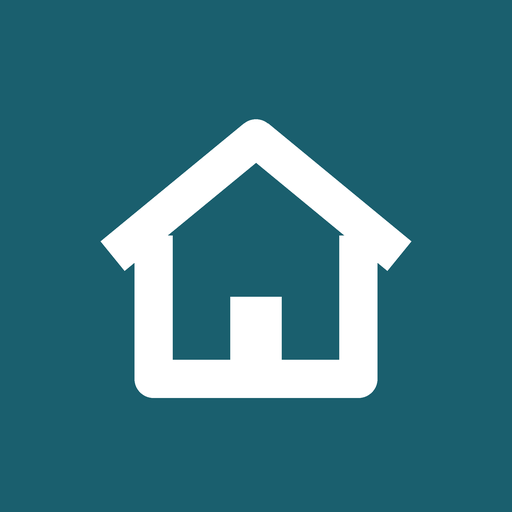
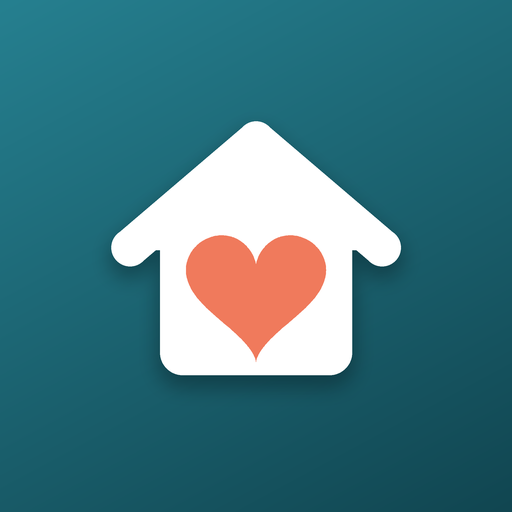
Add files via upload

diff --git a/index.html b/index.html
@@ -6,8 +6,8 @@
 <meta name="theme-color" content="#1A5F6E">
 <meta name="description" content="Gastos del hogar de Pablo y Pau">
 <link rel="manifest" href="manifest.webmanifest">
-<link rel="icon" href="icon-192.png">
-<link rel="apple-touch-icon" href="icon-192.png">
+<link rel="icon" href="icon-192.png?v=2">
+<link rel="apple-touch-icon" href="icon-192.png?v=2">
 <style>:root{color-scheme:light;padding-top:env(safe-area-inset-top,0px);padding-bottom:env(safe-area-inset-bottom,0px)}body{margin:0}img{max-width:100%}[hidden]{display:none!important}</style>
 <title>Hogar</title>
 <link rel="preconnect" href="https://fonts.googleapis.com">
@@ -68,6 +68,22 @@ button{cursor:pointer}
 .top-actions{display:flex;align-items:center;gap:8px}
 .chip-person{display:inline-flex;align-items:center;gap:8px;min-height:44px;padding:0 14px 0 6px;border-radius:999px;border:1px solid var(--line);background:var(--surface);font-weight:700}
 .chip-person .av{width:30px;height:30px;border-radius:50%;display:grid;place-items:center;background:var(--accent-soft);color:var(--accent-strong);font-size:13px}
+.av-me{min-height:36px;padding:0 12px;border-radius:999px;display:inline-flex;align-items:center;background:var(--accent-soft);color:var(--accent-strong);font-weight:800;font-size:14px;flex:none}
+.chip-set{display:inline-flex;align-items:center;gap:6px;min-height:44px;padding:0 14px 0 11px;border-radius:999px;border:1px solid var(--line);background:var(--surface);color:var(--ink);font-weight:700;font-size:15px;text-decoration:none;flex:none}
+.chip-set svg{width:20px;height:20px}
+.chip-set[aria-current]{background:var(--accent);border-color:var(--accent);color:var(--accent-ink)}
+.sec-l{margin:10px 4px -2px;font-size:12.5px;font-weight:800;letter-spacing:.07em;text-transform:uppercase;color:var(--muted)}
+.mini3{display:grid;grid-template-columns:repeat(3,minmax(0,1fr));gap:8px;margin-top:12px}
+.mini3>div{border:1px solid var(--line-soft);background:var(--sunken);border-radius:12px;padding:8px 10px;display:flex;flex-direction:column;gap:2px;min-width:0}
+.mini3 span{font-size:12px;color:var(--muted);line-height:1.25}
+.mini3 b{font-size:16px}
+.net{display:flex;flex-direction:column;gap:2px;padding:4px 0 12px}
+.net b{font-size:28px;line-height:1.1}
+.dt{width:46px;flex:none;border-radius:10px;background:var(--sunken);color:var(--ink-2);display:flex;flex-direction:column;align-items:center;justify-content:center;padding:5px 0;line-height:1.05}
+.dt b{font-size:17px}
+.dt span{font-size:11.5px;font-weight:700;text-transform:uppercase;letter-spacing:.04em}
+.dt.late{background:var(--warn-soft);color:var(--warn)}
+.dt.done{background:var(--ok-soft);color:var(--ok)}
 .icon-btn{width:44px;height:44px;display:grid;place-items:center;border-radius:50%;border:1px solid var(--line);background:var(--surface);color:var(--ink)}
 .icon-btn svg,.ic{width:22px;height:22px;flex:none}
 
@@ -329,6 +345,7 @@ var IC = {
   swap: '<path d="M4 8h14l-3-3M20 16H6l3 3"/>',
   chart: '<path d="M5 20V11M11 20V5M17 20v-7M2 20h20"/>',
   gear: '<path d="M4 6h10M18 6h2M4 12h4M12 12h8M4 18h12"/><circle cx="16" cy="6" r="2"/><circle cx="10" cy="12" r="2"/><circle cx="18" cy="18" r="2"/>',
+  cog: '<path d="M12.22 2h-.44a2 2 0 0 0-2 2v.18a2 2 0 0 1-1 1.73l-.43.25a2 2 0 0 1-2 0l-.15-.08a2 2 0 0 0-2.73.73l-.22.38a2 2 0 0 0 .73 2.73l.15.1a2 2 0 0 1 1 1.72v.51a2 2 0 0 1-1 1.74l-.15.09a2 2 0 0 0-.73 2.73l.22.38a2 2 0 0 0 2.73.73l.15-.08a2 2 0 0 1 2 0l.43.25a2 2 0 0 1 1 1.73V20a2 2 0 0 0 2 2h.44a2 2 0 0 0 2-2v-.18a2 2 0 0 1 1-1.73l.43-.25a2 2 0 0 1 2 0l.15.08a2 2 0 0 0 2.73-.73l.22-.39a2 2 0 0 0-.73-2.73l-.15-.08a2 2 0 0 1-1-1.74v-.5a2 2 0 0 1 1-1.74l.15-.09a2 2 0 0 0 .73-2.73l-.22-.38a2 2 0 0 0-2.73-.73l-.15.08a2 2 0 0 1-2 0l-.43-.25a2 2 0 0 1-1-1.73V4a2 2 0 0 0-2-2z"/><circle cx="12" cy="12" r="3"/>',
   cart: '<circle cx="9" cy="20" r="1.5"/><circle cx="18" cy="20" r="1.5"/><path d="M2.5 3.5h3l2.4 11.2a1.5 1.5 0 0 0 1.5 1.2h8.3a1.5 1.5 0 0 0 1.4-1.1L21 7.5H6.4"/>',
   apple: '<path d="M12 7c-1-2.5-3-3.5-5-3"/><path d="M12 7.5c-4.5-2-8 1-8 5.5 0 4.2 3 8 5.5 8 1 0 1.6-.5 2.5-.5s1.5.5 2.5.5c2.5 0 5.5-3.8 5.5-8 0-4.5-3.5-7.5-8-5.5z"/>',
   receipt: '<path d="M6 3h12v18l-3-2-3 2-3-2-3 2z"/><path d="M9 8h6M9 12h6"/>',
@@ -429,8 +446,8 @@ function load(){
     try {
       var c = JSON.parse(decodeURIComponent(escape(atob(h.slice(3)))));
       if (c.u && c.k) { conn = { url: c.u, key: c.k }; lsSet(CONN_KEY, JSON.stringify(conn)); }
-      if (c.p) { S.me = c.p; S.meAsked = true; }
-      ui.pendingToast = "Conectado a la planilla compartida" + (c.p ? " como " + NAME[c.p] : "") + ".";
+      if (c.p && !S.meAsked) { S.me = c.p; S.meAsked = true; }
+      ui.pendingToast = "Conectado a la planilla compartida" + (S.meAsked ? " como " + NAME[S.me] : "") + ".";
     } catch (e) { ui.pendingToast = "El enlace de conexión no es válido. Pídele a Pablo uno nuevo."; }
     try { history.replaceState(null, "", location.pathname + location.search + "#inicio"); } catch (e) { location.hash = "inicio"; }
   }
@@ -530,7 +547,7 @@ function connect(url, key, me){
     return { data: d, seeded: false };
   }).then(function(r){
     lsSet(CONN_KEY, JSON.stringify(conn)); queue = []; syncErr = "";
-    if (me) { S.me = me; S.meAsked = true; }
+    if (me && !S.meAsked) { S.me = me; S.meAsked = true; }
     applyServer(r.data);
     syncing = false; render();
     toast(r.seeded ? "Conectado. Se cargaron los datos iniciales en la planilla." : "Conectado. Se trajeron los datos de la planilla.");
@@ -677,7 +694,7 @@ function pendientes(){
   var ce = dankoEnd(TODAY);
   for (var e = dankoEnd(addDays(S.config.dankoLiqHasta, 1)); e <= ce; e = dankoEnd(addDays(e, 1))) {
     var dk = dankoCalc(e);
-    if (!dk.done && dk.items.length) out.push({ k: "danko-" + e, t: "Danko · " + dShort(dk.st) + " al " + dShort(e), d: dk.enCurso ? "cierra el " + dShort(e) + " · si se cerrara hoy" : "período cerrado", r: dk.r, sort: e, danko: true });
+    if (!dk.done && dk.items.length) out.push({ k: "danko-" + e, t: "Danko · " + dShort(dk.st) + " al " + dShort(e), d: dk.enCurso ? "cierra el " + dShort(e) + " · si se cerrara hoy" : "período cerrado", r: dk.r, sort: e, danko: true, cur: dk.enCurso });
   }
   out.sort(function(x, y){ return x.sort < y.sort ? -1 : 1; });
   return out;
@@ -938,47 +955,126 @@ function lineChart(o){
 
 /* ---------- Vistas ---------- */
 function topBar(title, sub){
-  var me = S.me || "pablo";
+  var me = S.meAsked ? S.me : null;
   return '<header class="top"><div style="min-width:0"><p class="date">' + esc(sub) + ' · <span id="sync-st" class="sync">' + esc(syncText()) + "</span></p><h1>" + esc(title) + '</h1></div><div class="top-actions">' +
-    '<button type="button" class="chip-person" data-act="me-toggle" aria-label="Este celular es de ' + NAME[me] + '. Cambiar"><span class="av">' + NAME[me].charAt(0) + "</span>" + NAME[me] + "</button>" +
-    '<a class="icon-btn" href="#ajustes" aria-label="Ajustes">' + icon("gear") + "</a></div></header>";
+    (me ? '<span class="av-me" role="img" aria-label="Este celular es de ' + NAME[me] + '" title="Este celular es de ' + NAME[me] + '">' + NAME[me] + "</span>" : "") +
+    '<a class="chip-set" href="#ajustes"' + (ui.view === "ajustes" ? ' aria-current="page"' : "") + ">" + icon("cog") + "<span>Ajustes</span></a></div></header>";
+}
+function meCard(){
+  if (ui.mePick) return '<div class="card"><h2>¿Este celular es de ' + NAME[ui.mePick] + '?</h2><p class="sub">Queda fijo y no se puede cambiar después. Así «Pagó» viene puesto con el nombre correcto y nadie anota a nombre del otro por error.</p><div class="btns" style="margin-top:12px"><button type="button" class="btn" data-act="me-ok" data-v="' + ui.mePick + '">Sí, es de ' + NAME[ui.mePick] + '</button><button type="button" class="btn quiet" data-act="me-back">Volver</button></div></div>';
+  return '<div class="card"><h2>¿De quién es este celular?</h2><p class="sub">Se elige una sola vez. Desde ahí, «Pagó» viene puesto con ese nombre cada vez que anoten.</p><div class="btns" style="margin-top:12px"><button type="button" class="btn sec" data-act="me" data-v="pablo">Pablo</button><button type="button" class="btn sec" data-act="me" data-v="pau">Pau</button></div></div>';
 }
 
 function viewInicio(){
-  var h = "", ws = weekStart(TODAY), f = foodWeekCalc(ws);
-  var left = f.pres - f.total, dLeft = Math.max(1, 7 - (parse(TODAY).getDay() + 6) % 7);
-  h += topBar("Hogar", cap(dLong(TODAY)));
+  var m = mk(TODAY), h = topBar("Hogar", cap(dLong(TODAY)));
   h += '<div class="stack">';
-  if (!S.meAsked) h += '<div class="card"><h2>¿De quién es este celular?</h2><p class="sub">Así, «Pagó» viene puesto con tu nombre cada vez que anotas.</p><div class="btns" style="margin-top:12px"><button class="btn sec" data-act="me" data-v="pablo">Pablo</button><button class="btn sec" data-act="me" data-v="pau">Pau</button></div></div>';
+  if (!S.meAsked) h += meCard();
   if (!conn) h += '<div class="banner">' + icon("info") + '<div><b>Este celular todavía no está conectado a la planilla compartida.</b> Lo que anoten queda solo aquí. <button type="button" class="btn small quiet" style="margin-top:8px" data-act="go" data-v="ajustes-con">Conectar</button></div></div>';
   else if (syncErr) h += '<div class="banner warnb">' + icon("info") + "<div>" + esc(syncErr) + '</div><button type="button" class="btn small quiet" data-act="sync-now">Reintentar</button></div>';
-  /* Héroe */
+  h += '<p class="sec-l">La plata de los dos</p>' + cfCard(m) + entreCard();
+  h += '<p class="sec-l">Presupuesto</p>' + foodHero(m) + presCard(m);
+  h += '<p class="sec-l">Por pagar o anotar</p>' + agendaCard(m);
+  return h + "</div>";
+}
+function cfMes(m){
+  var dep = 0, out = 0;
+  S.liqs.forEach(function(l){
+    if (mk(l.fecha) !== m) return;
+    if (l.tipo === "hogar") dep += (l.montos.pauACF || 0) + (l.montos.pabloACF || 0);
+    if (l.tipo === "reemb") out += (l.montos.cfAPablo || 0) + (l.montos.cfAPau || 0);
+  });
+  S.movs.forEach(function(x){ if (x.paga === "cf" && mk(x.fecha) === m) out += x.monto; });
+  return { dep: dep, out: out };
+}
+function cfCard(m){
+  var c = S.config.cf, sal = cfSaldo(), cm = cfMes(m), re = reembItems();
+  var ra = sum(re.filter(function(x){ return x.paga === "pablo"; }), function(x){ return x.monto; }), rb = sum(re.filter(function(x){ return x.paga === "pau"; }), function(x){ return x.monto; });
+  var hc = hogarCalc(m), nxt = hc.liq ? hogarCalc(addMonths(m, 1)) : hc;
+  var h = '<section class="card" data-info="cf"><div class="card-h"><h2>Cuenta familiar · ' + esc(c.banco) + "</h2>" + (c.conocido ? "" : '<span class="pill warn">Falta el saldo real</span>') + "</div>";
+  h += '<p class="sub">' + (c.conocido ? "Saldo estimado hoy" : "Según lo anotado desde el " + dShort(c.fecha || "2026-10-01")) + '</p><p class="big num" style="font-size:34px;margin:2px 0 0">' + fmt(sal) + "</p>";
+  h += '<div class="mini3"><div><span>Entró en ' + monthName(m) + '</span><b class="num">' + fmt(cm.dep) + '</b></div><div><span>Salió en ' + monthName(m) + '</span><b class="num">' + fmt(cm.out) + '</b></div><div><span>Por devolver' + (ra && !rb ? " a Pablo" : rb && !ra ? " a Pau" : "") + '</span><b class="num">' + fmt(ra + rb) + "</b></div></div>";
+  var dep = nxt.listo ? nxt.r.pauACF : null;
+  h += '<p class="note">' + (ra + rb ? "Después de devolver lo pendiente quedan <b>" + fmt(sal - ra - rb) + "</b>. " : "") + (hc.liq ? "Próximo depósito de Pau, del 2 al 5 de " + monthName(nxt.m) + ": " : "Depósito de Pau este mes: ") + (dep == null ? "se calcula al anotar el arriendo." : "<b>" + fmt(dep) + "</b>" + (nxt.have.ggcc ? "." : ", antes de los gastos comunes.")) + "</p>";
+  h += '<div class="btns" style="margin-top:12px">' + (re.length ? '<button type="button" class="btn sec small" data-act="go-liq" data-v="reemb">Devolver ' + fmt(ra + rb) + "</button>" : "") + '<button type="button" class="btn sec small" data-act="go" data-v="ajustes-cf">Anotar saldo del banco</button></div></section>';
+  return h;
+}
+function entreCard(){
+  var p = pendientes().filter(function(x){ return x.k !== "reemb"; });
+  var nums = p.filter(function(x){ return typeof x.r === "number"; }), net = sum(nums, function(x){ return x.r; });
+  var h = '<section class="card tight" data-info="pend"><div class="card-h"><h2>Entre Pau y Pablo</h2><a class="link" href="#liquidar">Liquidar</a></div>';
+  if (!p.length) return h + '<div class="row"><span style="color:var(--ok)">' + icon("check") + '</span><div class="grow"><div class="t">Están al día</div><div class="d">No se deben nada.</div></div></div></section>';
+  h += '<div class="net"><span class="sub" style="margin:0">' + (net > 0 ? "En total, Pau le debe a Pablo" : net < 0 ? "En total, Pablo le debe a Pau" : "En total quedan a mano") + '</span><b class="num">' + fmt(Math.abs(net)) + "</b>" + (p.some(function(x){ return x.cur; }) ? '<span class="sub" style="margin:0">Incluye Danko calculado a hoy; cambia hasta el corte.</span>' : "") + "</div>";
+  p.forEach(function(x){
+    h += '<a class="row" href="#liquidar" data-act="go-liq" data-v="' + x.k + '" style="color:inherit;text-decoration:none"><div class="grow"><div class="t">' + esc(x.t) + '</div><div class="d">' + esc(x.d) + '</div></div><div class="amt num">' + (x.r == null ? '<span class="pill warn">Falta</span>' : fmt(Math.abs(x.r)) + "<small>" + dirShort(x.r) + "</small>") + "</div></a>";
+  });
+  return h + "</section>";
+}
+function foodHero(m){
+  var ws = weekStart(TODAY), f = foodWeekCalc(ws), left = f.pres - f.total, dLeft = Math.max(1, 7 - (parse(TODAY).getDay() + 6) % 7);
+  var list = movsIn(m + "-01", m + "-" + pad(daysIn(m))), fm = sum(list.filter(function(x){ return x.cat === "super" || x.cat === "feria"; }), function(x){ return x.monto; });
   var pct = Math.min(100, f.total / f.pres * 100);
-  h += '<section class="hero" data-info="food"><div><h2>Alimentación de la semana</h2><span class="muted">' + dDay(ws) + " a " + dDay(f.we) + " · supermercado y feria</span></div>";
+  var h = '<section class="hero" data-info="food"><div><h2>Alimentación de la semana</h2><span class="muted">' + dDay(ws) + " a " + dDay(f.we) + " · supermercado y feria</span></div>";
   if (left >= 0) h += '<div><p class="big" style="margin:0">' + fmt(left) + '</p><p style="margin:6px 0 0">quedan de ' + fmt(f.pres) + " · " + dLeft + (dLeft === 1 ? " día" : " días") + ", <b>" + fmt(left / dLeft) + " por día</b></p></div>";
-  else h += '<div><p class="big" style="margin:0">' + fmt(-left) + '</p><p style="margin:6px 0 0">sobre el presupuesto de ' + fmt(f.pres) + '</p></div><p class="over" style="margin:0">Se pasaron esta semana. La diferencia sale de la cuenta familiar.</p>';
+  else h += '<div><p class="big" style="margin:0">' + fmt(-left) + '</p><p style="margin:6px 0 0">sobre la referencia de ' + fmt(f.pres) + '</p></div><p class="over" style="margin:0">Esta semana se pasaron de la referencia. La diferencia sale de la cuenta familiar.</p>';
   h += '<div class="track" aria-hidden="true"><i style="width:' + pct.toFixed(1) + '%"></i></div>';
   h += '<div class="split">' + foodSplit("Supermercado", f.su, S.config.food.super) + foodSplit("Feria", f.fe, S.config.food.feria) + "</div>";
-  h += '<button type="button" class="hero-btn" data-act="add" data-cat="super">' + "Anotar compra</button></section>";
-  /* Por liquidar */
-  var p = pendientes();
-  h += '<section class="card tight" data-info="pend"><div class="card-h"><h2>Pendiente entre ustedes</h2><a class="link" href="#liquidar">Liquidar</a></div>';
-  if (!p.length) h += '<div class="row"><span style="color:var(--ok)">' + icon("check") + '</span><div class="grow"><div class="t">Están al día</div><div class="d">No hay nada pendiente entre ustedes.</div></div></div>';
-  p.forEach(function(x){
-    h += '<a class="row" href="#liquidar" data-act="go-liq" data-v="' + x.k + '" style="color:inherit;text-decoration:none"><div class="grow"><div class="t">' + esc(x.t) + '</div><div class="d">' + esc(x.d) + '</div></div><div class="amt num">' + (x.r == null ? (x.txt ? '<span style="font-size:14px">' + esc(x.txt) + "</span>" : '<span class="pill warn">Falta</span>') : fmt(Math.abs(x.r)) + "<small>" + dirShort(x.r) + "</small>") + "</div></a>";
-  });
-  h += "</section>";
-  h += cuentasDelMes(mk(TODAY));
-  /* Cuenta familiar */
-  var sal = cfSaldo(), hc = hogarCalc(mk(TODAY)), nxt = hc.liq ? hogarCalc(addMonths(mk(TODAY), 1)) : hc, cfc = S.config.cf;
-  h += '<section class="card" data-info="cf"><div class="card-h"><h2>Cuenta familiar · ' + esc(cfc.banco) + '</h2>' + (cfc.conocido ? "" : '<span class="pill warn">Falta el saldo real</span>') + "</div>";
-  if (cfc.conocido) h += '<p class="sub">Saldo estimado hoy</p><p class="big num" style="font-size:30px;margin:4px 0 0">' + fmt(sal) + "</p>";
-  else h += '<p class="sub">Entradas menos salidas anotadas desde el ' + dShort(cfc.fecha) + '</p><p class="big num" style="font-size:24px;margin:4px 0 0">' + fmt(sal) + '</p><p class="note">Para ver el saldo, anoten el que muestra el banco.</p>';
-  var dep = nxt.listo ? nxt.r.pauACF : null;
-  h += '<p class="note">' + (hc.liq ? "Pau ya depositó " + fmt(hc.r.pauACF) + " este mes. Próximo depósito, del 2 al 5 de " + monthName(nxt.m) + ": " : "Depósito de Pau este mes: ") + (dep == null ? "se calcula al anotar el arriendo." : "<b>" + fmt(dep) + "</b>" + (nxt.have.ggcc ? "." : ", antes de los gastos comunes.")) + "</p>";
-  h += '<div class="btns" style="margin-top:12px"><button type="button" class="btn sec small" data-act="go" data-v="ajustes-cf">Anotar saldo del banco</button></div></section>';
-  h += "</div>";
+  h += '<span class="muted">En ' + monthName(m) + " van " + fmt(fm) + " de " + fmt(foodMonth(m)) + " de referencia para el mes.</span>";
+  return h + '<button type="button" class="hero-btn" data-act="add" data-cat="super">Anotar compra</button></section>';
+}
+function presCard(m){
+  var list = movsIn(m + "-01", m + "-" + pad(daysIn(m)));
+  var food = sum(list.filter(function(x){ return x.cat === "super" || x.cat === "feria"; }), function(x){ return x.monto; }), foodRef = foodMonth(m);
+  var hog = 0, hogRef = 0;
+  ["arriendo", "ggcc", "luz", "gas", "internet", "streaming"].forEach(function(sub){ hog += sum(list.filter(function(x){ return x.cat === "hogar" && x.sub === sub; }), function(x){ return x.monto; }); hogRef += presSub(sub, m); });
+  var otr = sum(list.filter(function(x){ return (x.cat === "hogar" && x.sub === "otro") || (x.cat === "comp" && x.paga === "cf"); }), function(x){ return x.monto; }), otrRef = presSub("otro", m);
+  var ap = aporte(m), proj = Math.max(food, foodRef) + Math.max(hog, hogRef) + Math.max(otr, otrRef), queda = ap.total - proj;
+  var h = '<section class="card" data-info="num-hogar:' + m + '"><div class="card-h"><h2>Presupuesto de ' + monthName(m) + '</h2><a class="link" href="#numeros">Detalle</a></div><p class="sub">Lo gastado en el mes; la raya marca la referencia.</p>';
+  h += bullet("Alimentación", food, foodRef, "supermercado y feria") + bullet("Cuentas del hogar", hog, hogRef, "arriendo y boletas") + bullet("Otros con la cuenta familiar", otr, otrRef, "");
+  h += '<p class="note">Aportes de ' + monthName(m) + ": " + fmt(ap.total) + ". Si lo que falta del mes sigue la referencia, " + (queda >= 0 ? "sobrarían <b>" + fmt(queda) + "</b>." : "faltarían <b>" + fmt(-queda) + "</b>.") + "</p></section>";
   return h;
+}
+function dtBox(fecha, cls){ var d = parse(fecha); return '<div class="dt' + (cls ? " " + cls : "") + '"><b>' + d.getDate() + "</b><span>" + MES3[d.getMonth()] + "</span></div>"; }
+function agendaCard(m){
+  var pend = [], done = [], liq = liqFind("hogar", m), due = m + "-05", paid = 0, last = m + "-" + pad(daysIn(m));
+  ["arriendo", "ggcc", "luz", "gas", "internet", "streaming"].forEach(function(sub){
+    var it = S.movs.filter(function(x){ return x.cat === "hogar" && x.sub === sub && mk(x.fecha) === m; });
+    var payer = S.config.payer[sub], fixed = recById(sub);
+    if (it.length) {
+      paid++;
+      done.push({ sort: it[0].fecha, html: '<button type="button" class="row" style="width:100%;background:none;border-left:0;border-right:0;border-bottom:0;text-align:left;color:inherit" data-act="edit" data-v="' + it[0].id + '">' + dtBox(it[0].fecha, "done") + '<div class="grow"><div class="t">' + SUBS[sub] + '</div><div class="d">Pagó ' + NAME[it[0].paga] + '</div></div><div class="amt num">' + fmt(sum(it, function(x){ return x.monto; })) + "</div></button>" });
+      return;
+    }
+    var late = TODAY > due, est = fixed ? recAmount(sub, m + "-28") : 0;
+    var d = (payer === "cf" ? "Cuenta familiar" : NAME[payer]) + " · " + (fixed ? fmt(est) + (sub === "streaming" ? " · automático" : "") : "referencia " + fmt(presSub(sub, m))) + (liq ? "" : late ? " · se pagaba del 2 al 5" : " · del 2 al 5");
+    pend.push({ sort: due, html: '<div class="row">' + dtBox(due, late ? "late" : "") + '<div class="grow"><div class="t">' + SUBS[sub] + '</div><div class="d">' + d + "</div></div>" +
+      (fixed ? '<button type="button" class="btn small sec" data-act="quick" data-sub="' + sub + '" data-m="' + m + '">Pagado</button>' : '<button type="button" class="btn small sec" data-act="add" data-cat="hogar" data-sub="' + sub + '">Anotar</button>') + "</div>" });
+  });
+  /* Seguro de Danko: automático el 14 */
+  var cact = recAmount("cactus", m + "-14"), cr = recById("cactus");
+  if (cact > 0) {
+    var cd = m + "-14", hecho = TODAY >= cd;
+    (hecho ? done : pend).push({ sort: cd, html: '<div class="row">' + dtBox(cd, hecho ? "done" : "") + '<div class="grow"><div class="t">Seguro de Danko</div><div class="d">' + NAME[cr.paga] + " · cobro automático</div></div>" + '<div class="amt num">' + fmt(cact) + "</div></div>" });
+  }
+  /* Carmen: dos visitas y cotizaciones al mes */
+  var vis = S.movs.filter(function(x){ return x.cat === "carmen" && x.tipo === "visita" && mk(x.fecha) === m; });
+  var visN = sum(vis, function(x){ return Math.max(1, Math.round(x.monto / (recAmount("visita", x.fecha) || 30000))); });
+  var cot = S.movs.some(function(x){ return x.cat === "carmen" && x.tipo === "cotiz" && mk(x.fecha) === m; });
+  var cOk = visN >= 2 && cot;
+  (cOk ? done : pend).push({ sort: last, html: '<div class="row">' + dtBox(last, cOk ? "done" : "") + '<div class="grow"><div class="t">Carmen</div><div class="d">' + visN + " de 2 visitas · cotizaciones " + (cot ? "pagadas" : "pendientes") + "</div></div>" +
+    (cOk ? "" : '<div class="btns" style="flex:none;gap:6px">' + (visN < 2 ? '<button type="button" class="btn small sec" data-act="quick-carmen" data-v="visita">+ Visita</button>' : "") + (cot ? "" : '<button type="button" class="btn small sec" data-act="quick-carmen" data-v="cotiz">Cotiz.</button>') + "</div>") + "</div>" });
+  /* Fin de mes: adelanto del arriendo del mes siguiente */
+  if (+TODAY.slice(8, 10) >= 25) {
+    var nm = addMonths(m, 1);
+    if (!S.movs.some(function(x){ return x.cat === "hogar" && x.sub === "arriendo" && mk(x.fecha) === nm; }))
+      pend.push({ sort: nm + "-05", html: '<div class="row">' + dtBox(nm + "-05") + '<div class="grow"><div class="t">Arriendo de ' + monthName(nm) + '</div><div class="d">' + NAME[S.config.payer.arriendo] + " · " + fmt(recAmount("arriendo", nm + "-28")) + " · del 2 al 5</div></div>" + '<button type="button" class="btn small sec" data-act="quick" data-sub="arriendo" data-m="' + nm + '">Pagado</button></div>' });
+  }
+  pend.sort(function(a, b){ return a.sort < b.sort ? -1 : 1; });
+  done.sort(function(a, b){ return a.sort < b.sort ? -1 : 1; });
+  var h = '<section class="card tight" data-info="cuentas:' + m + '"><div class="card-h"><h2>Cuentas de ' + monthName(m) + '</h2><span class="sub" style="margin:0">' + paid + " de 6 pagadas</span></div>";
+  if (liq && pend.some(function(x){ return x.sort === due; })) h += '<p class="sub" style="margin:0 0 6px">El hogar de ' + monthName(m) + " ya se liquidó: lo que se pague ahora lo devuelve la cuenta familiar a quien lo pagó.</p>";
+  h += pend.length ? pend.map(function(x){ return x.html; }).join("") : '<div class="row"><span style="color:var(--ok)">' + icon("check") + '</span><div class="grow"><div class="t">Todo pagado y anotado</div></div></div>';
+  if (done.length) h += '<p class="grp">Ya pagado</p>' + done.map(function(x){ return x.html; }).join("");
+  return h + "</section>";
 }
 function foodSplit(n, v, p){
   var pct = Math.min(100, v / p * 100);
@@ -1306,7 +1402,7 @@ function viewAjustes(){
     h += '<p class="sub">Este celular está conectado. Lo que anota cualquiera de los dos se guarda en la planilla de Google y aparece en ambos celulares.</p>';
     h += '<div class="kv"><span>Estado</span><span class="sync ' + (syncErr ? "err" : queue.length ? "busy" : "ok") + '">' + esc(syncText()) + "</span></div>";
     if (syncErr) h += '<p class="err" style="font-weight:400">' + esc(syncErr) + "</p>";
-    h += '<div class="btns" style="margin-top:12px"><button type="button" class="btn sec" data-act="sync-now">Sincronizar ahora</button><button type="button" class="btn sec" data-act="link-pau">Copiar enlace para Pau</button></div>';
+    h += '<div class="btns" style="margin-top:12px"><button type="button" class="btn sec" data-act="sync-now">Sincronizar ahora</button>' + (S.me !== "pau" ? '<button type="button" class="btn sec" data-act="link-pau">Copiar enlace para Pau</button>' : "") + "</div>";
     h += '<textarea id="link-box" class="input" style="margin-top:10px;min-height:80px;padding:10px;font-size:12px" readonly hidden></textarea>';
     h += ui.confirm === "discon" ? '<div class="confirm actions"><p>¿Desconectar este celular de la planilla?</p><div class="btns"><button class="btn danger" data-act="discon">Desconectar</button><button class="btn quiet" data-act="cancel">Cancelar</button></div></div>' : '<div class="actions"><button type="button" class="btn quiet block" data-act="ask" data-v="discon">Desconectar este celular</button></div>';
   } else {
@@ -1314,10 +1410,10 @@ function viewAjustes(){
     h += '<div class="field" style="margin-top:12px"><label for="con-url">Dirección de la aplicación web</label><input id="con-url" class="input" placeholder="https://script.google.com/macros/s/…/exec" autocomplete="off"></div>';
     h += '<div class="field" style="margin-top:10px"><label for="con-key">Clave</label><input id="con-key" class="input" autocomplete="off" placeholder="hogar-…"></div>';
     h += '<div style="margin-top:12px"><button type="button" class="btn block" data-act="connect"' + (syncing ? " disabled" : "") + ">" + (syncing ? "Conectando…" : "Conectar") + "</button></div>";
-    h += '<p class="hint">Si la planilla está vacía, la app carga los datos iniciales: octubre y noviembre, Danko 2026 y lo anotado en este celular.</p>';
+    h += '<p class="hint">Si la planilla ya tiene datos, la app los trae. Si está vacía, carga los datos iniciales.</p>';
   }
   h += "</section>";
-  h += '<section class="card"><h2>Este celular</h2><p class="sub">Define quién aparece en «Pagó» al anotar.</p><div class="seg" style="margin-top:10px">' + ["pablo", "pau"].map(function(p){ return '<button type="button" aria-pressed="' + (me === p) + '" data-act="me" data-v="' + p + '">' + NAME[p] + "</button>"; }).join("") + "</div></section>";
+  h += S.meAsked ? '<section class="card"><h2>Este celular</h2><div class="kv" style="border:0"><span>Es de</span><b>' + NAME[S.me] + '</b></div><p class="sub">Quedó fijo la primera vez y no se puede cambiar. «Pagó» viene puesto con este nombre al anotar.</p></section>' : meCard();
   /* Recurrentes */
   h += '<section class="card tight"><div class="card-h"><h2>Gastos recurrentes</h2></div><p class="sub">Toca uno para cambiar su monto y desde cuándo rige. El monto anterior queda guardado.</p>';
   [["hogar", "Hogar"], ["danko", "Danko"], ["carmen", "Carmen"]].forEach(function(g){
@@ -1555,15 +1651,17 @@ document.addEventListener("click", function(e){
     case "cancel-s": ui.confirm = null; renderSheet(); break;
     case "f-del": var gone = byId(F.id); S.movs = S.movs.filter(function(x){ return x.id !== F.id; }); ui.confirm = null; save(); closeSheet(); render(); toast("Gasto eliminado.", function(){ S.movs.push(gone); save(); render(); }); break;
     case "undo": if (ui.toast && ui.toast.undo) { ui.toast.undo(); } document.getElementById("toast-root").innerHTML = ""; ui.toast = null; break;
-    case "me": S.me = v; S.meAsked = true; persist(); render(); toast("Este celular quedó como de " + NAME[v] + "."); break;
-    case "me-toggle": S.me = other(S.me || "pablo"); S.meAsked = true; persist(); render(); toast("Ahora este celular es de " + NAME[S.me] + "."); break;
+    case "me": if (!S.meAsked) { ui.mePick = v; render(); } break;
+    case "me-ok": if (!S.meAsked && (v === "pablo" || v === "pau")) { S.me = v; S.meAsked = true; ui.mePick = null; persist(); render(); toast("Listo: este celular quedó como de " + NAME[v] + "."); } break;
+    case "me-back": ui.mePick = null; render(); break;
+    case "me-toggle": break;
     case "hide-banner": ui.bannerHidden = true; render(); break;
     case "sync-now": syncErr = ""; pull(); break;
     case "connect":
       var cu = document.getElementById("con-url").value, ck = document.getElementById("con-key").value;
       if (!/^https:\/\/script\.google(usercontent)?\.com\//.test(cu.trim())) { toast("La dirección debe empezar con https://script.google.com/"); break; }
       if (!ck.trim()) { toast("Falta la clave."); break; }
-      connect(cu, ck, S.me || "pablo"); render(); break;
+      connect(cu, ck, null); render(); break;
     case "discon": ui.confirm = null; disconnect(); break;
     case "link-pau":
       var lk = location.origin + location.pathname + "#c=" + btoa(unescape(encodeURIComponent(JSON.stringify({ u: conn.url, k: conn.key, p: "pau" })))), lb = document.getElementById("link-box");

diff --git a/sw.js b/sw.js
@@ -1,5 +1,5 @@
 /* Hogar: funciona sin señal con la última versión descargada. Cambien VERSION al publicar cambios. */
-var VERSION = "hogar-2026-11-06b";
+var VERSION = "hogar-2026-11-06c";
 var ARCHIVOS = ["./", "./index.html", "./manifest.webmanifest", "./icon-192.png", "./icon-512.png"];
 self.addEventListener("install", function (e) {
   e.waitUntil(caches.open(VERSION).then(function (c) { return c.addAll(ARCHIVOS); }));
